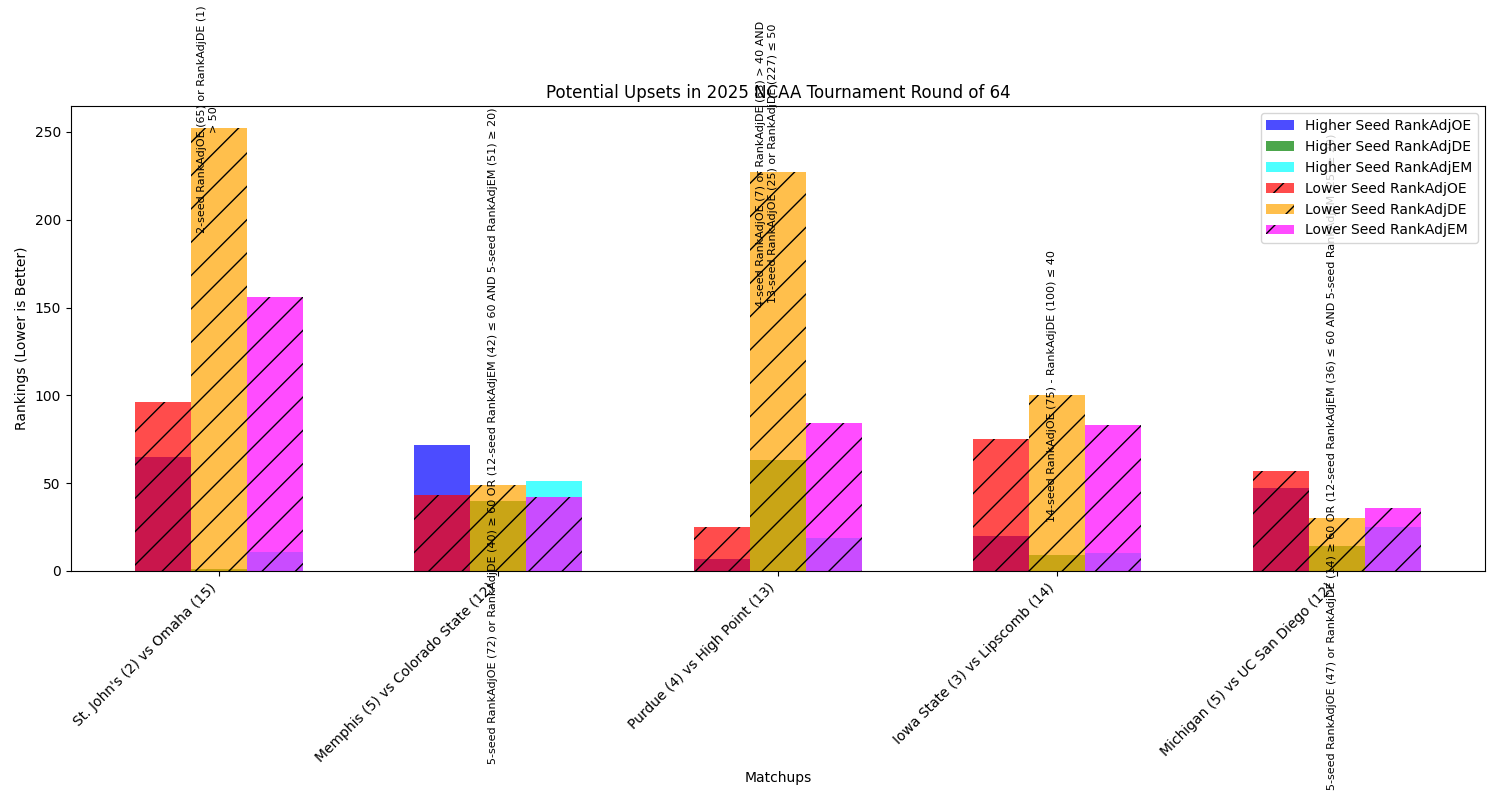
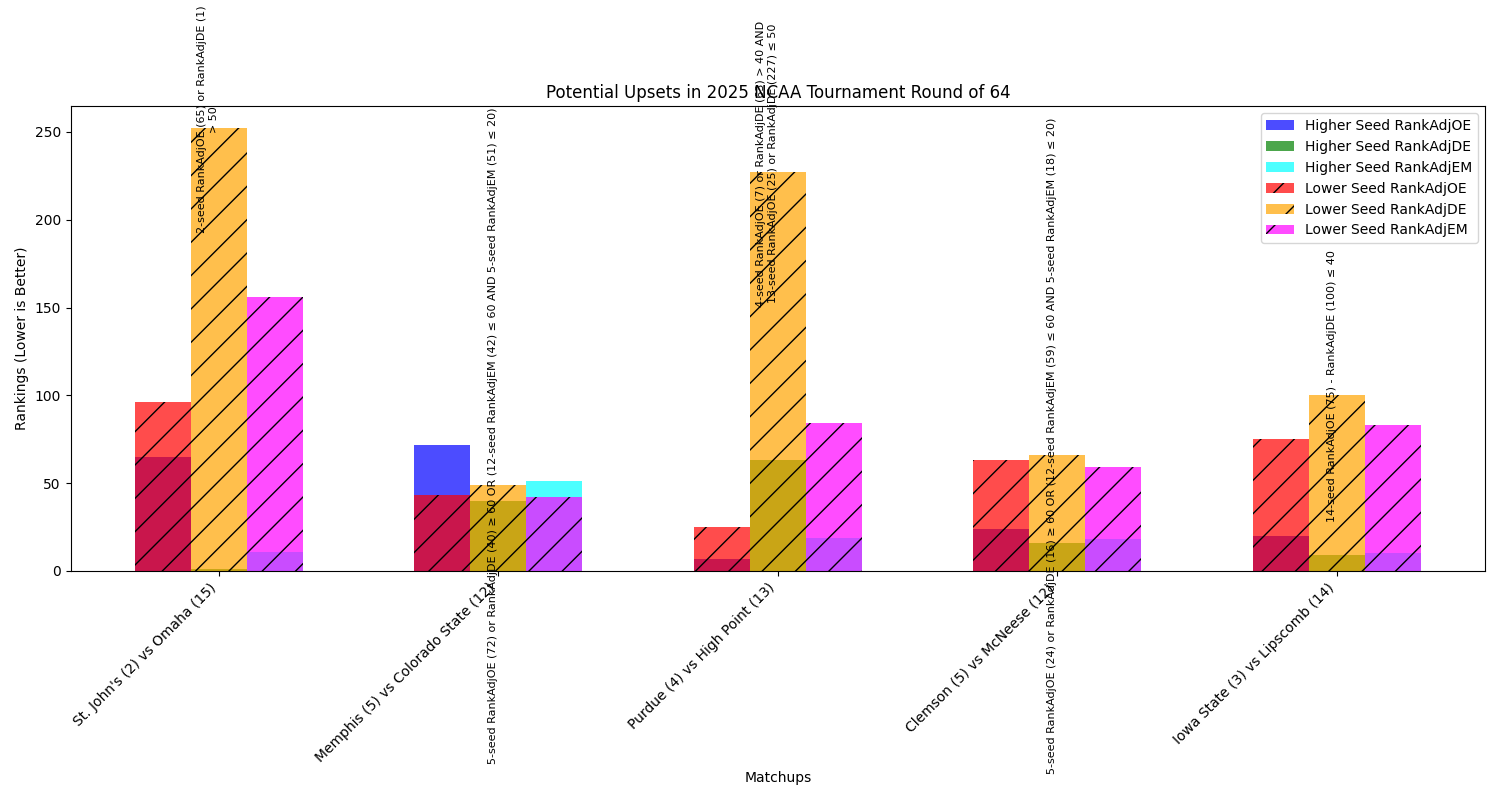
Updated criteria and multiple metrics to CSV and visualization for upsets

diff --git a/ncaa_basketball/cbb_2025_kenpom_upsets.py b/ncaa_basketball/cbb_2025_kenpom_upsets.py
@@ -101,8 +101,8 @@ def identify_upsets(df, region):
     # 5 vs 12
     five = region_df_single[region_df_single["Seed"] == 5].iloc[0] if not region_df_single[region_df_single["Seed"] == 5].empty else None
     twelve = region_df_single[region_df_single["Seed"] == 12].iloc[0] if not region_df_single[region_df_single["Seed"] == 12].empty else None
-    if five is not None and twelve is not None and ((five.RankAdjOE >= 60 or five.RankAdjDE >= 60) or (twelve.RankAdjEM <= 60 and five.RankAdjEM >= 20)):
-        criteria = f"5-seed RankAdjOE ({five.RankAdjOE}) or RankAdjDE ({five.RankAdjDE}) ≥ 60 OR (12-seed RankAdjEM ({twelve.RankAdjEM}) ≤ 60 AND 5-seed RankAdjEM ({five.RankAdjEM}) ≥ 20)"
+    if five is not None and twelve is not None and ((five.RankAdjOE >= 60 or five.RankAdjDE >= 60) or (twelve.RankAdjEM <= 60 and five.RankAdjEM <= 20)):
+        criteria = f"5-seed RankAdjOE ({five.RankAdjOE}) or RankAdjDE ({five.RankAdjDE}) ≥ 60 OR (12-seed RankAdjEM ({twelve.RankAdjEM}) ≤ 60 AND 5-seed RankAdjEM ({five.RankAdjEM}) ≤ 20)"
         upsets.append((f"{five.School} (5) vs {twelve.School} (12)", "5 vs 12", five.School, twelve.School, criteria,
                        five.RankAdjOE, five.RankAdjDE, five.RankAdjEM, twelve.RankAdjOE, twelve.RankAdjDE, twelve.RankAdjEM))
 
